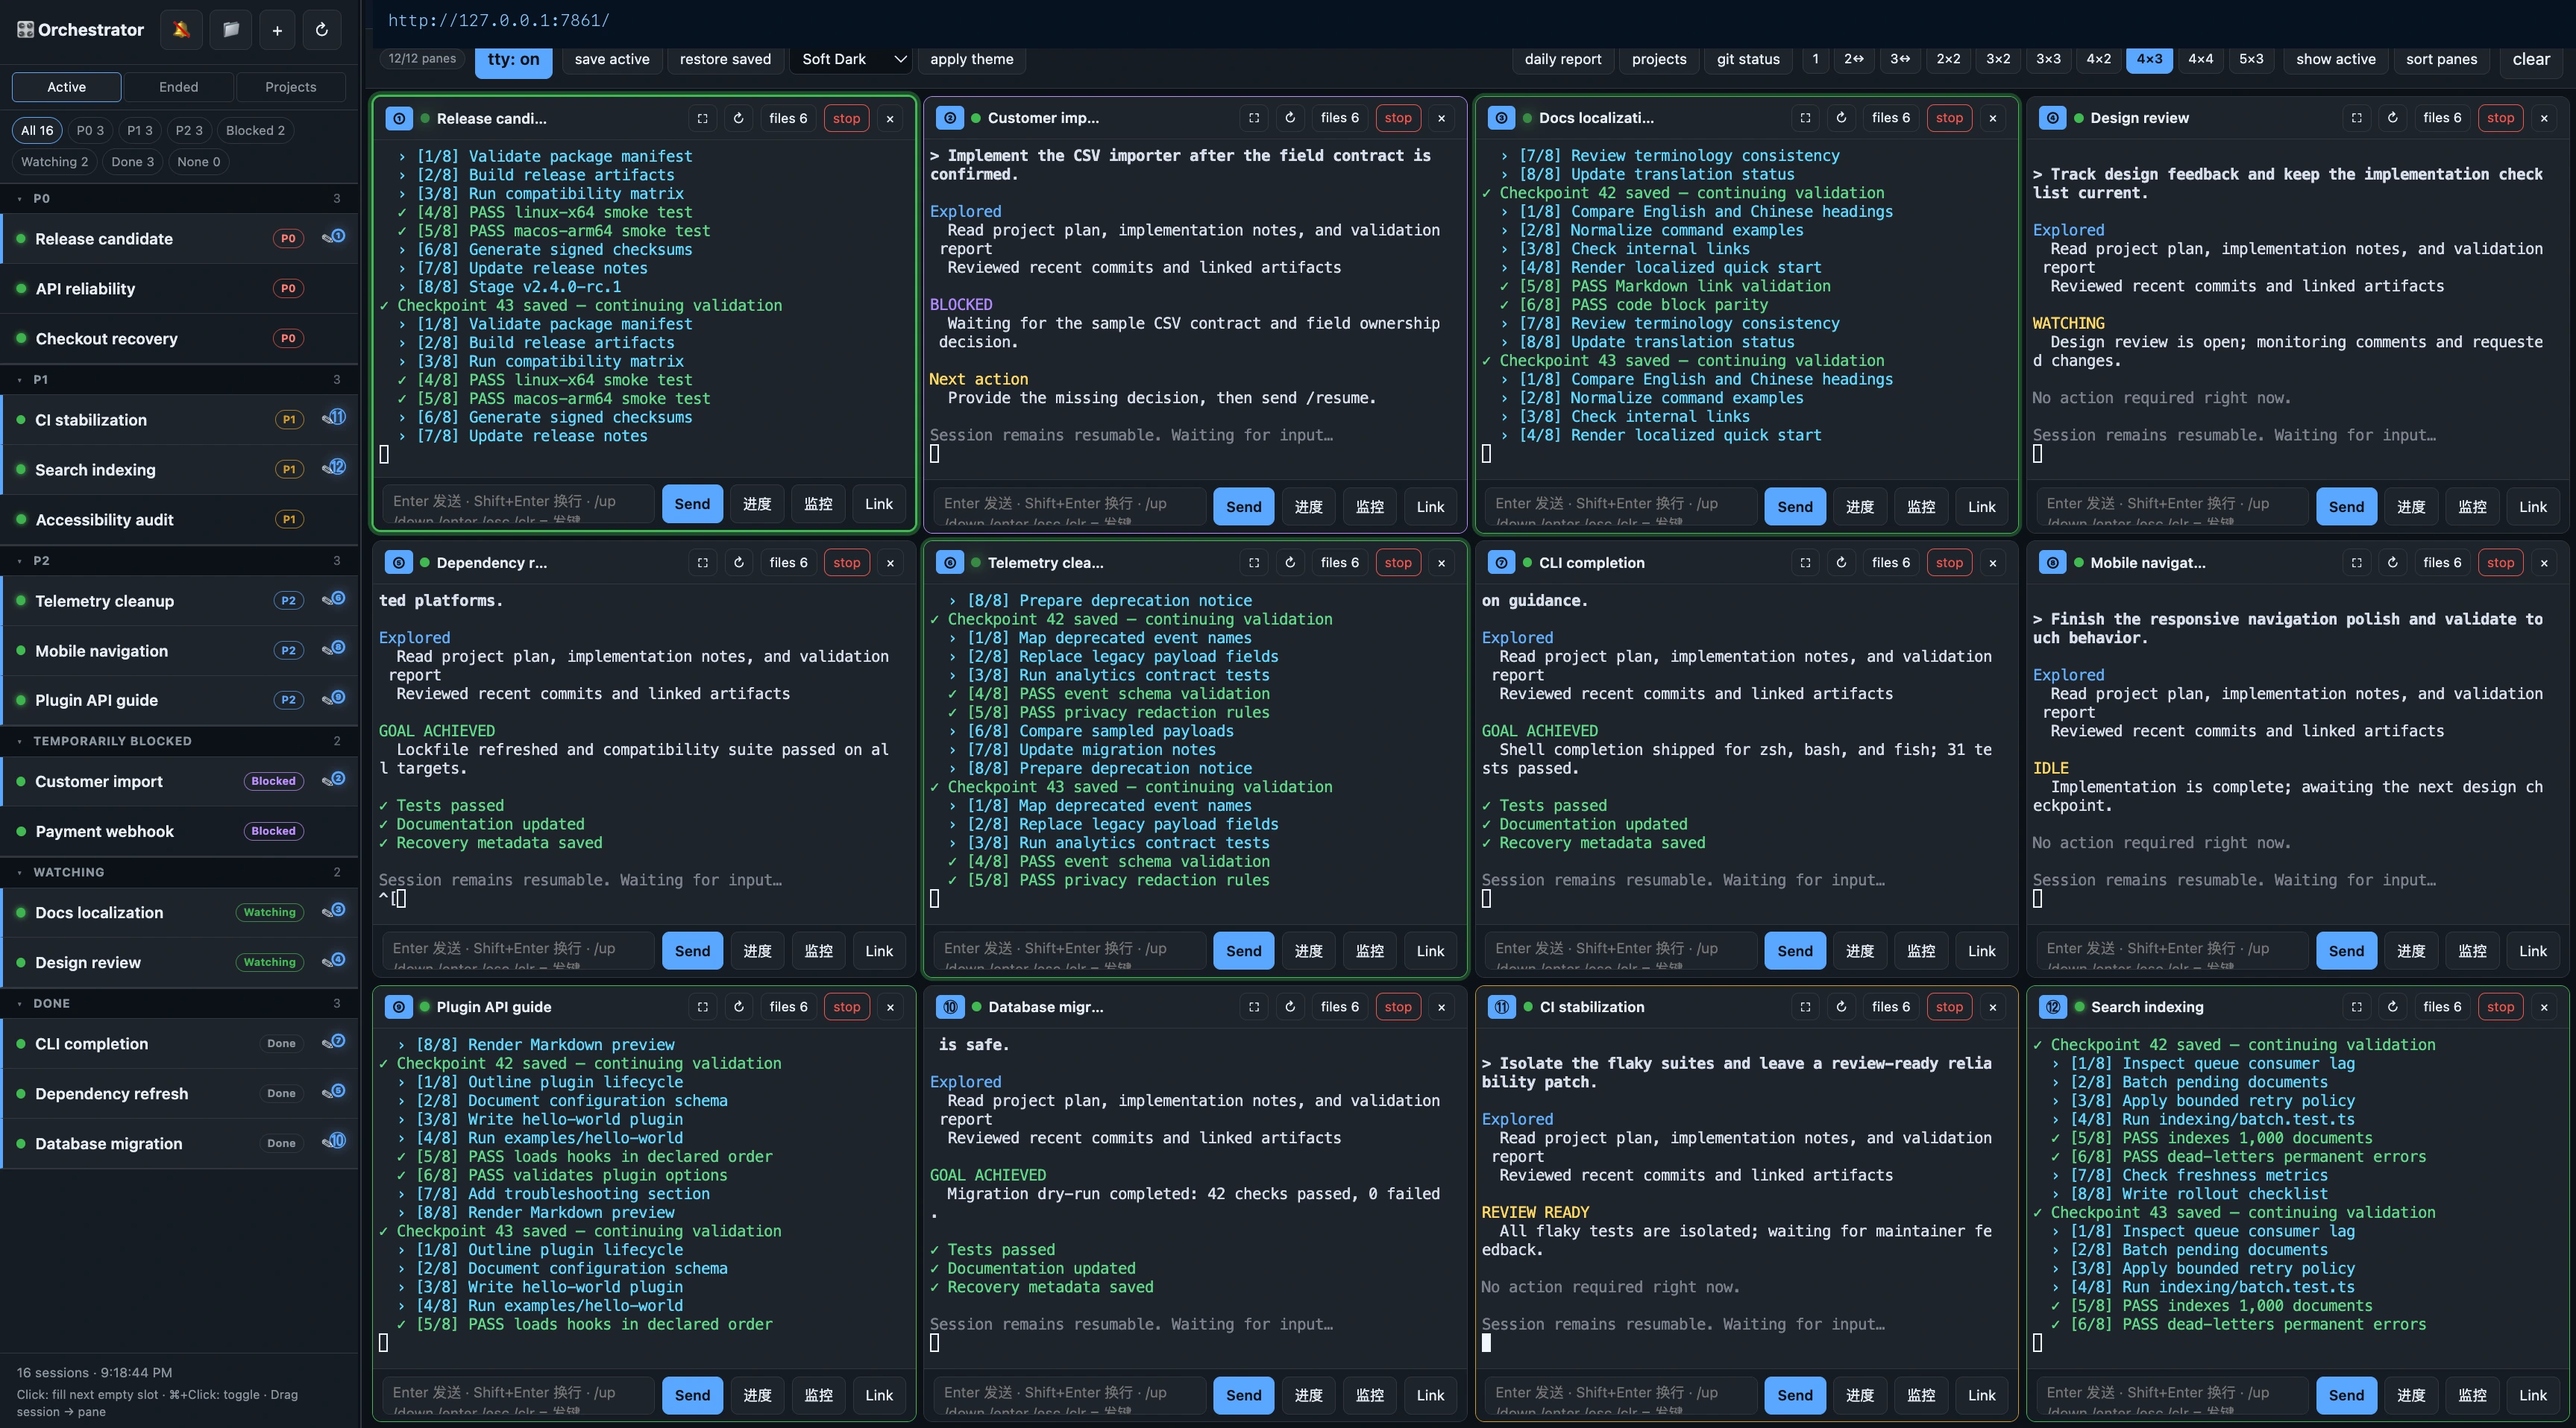
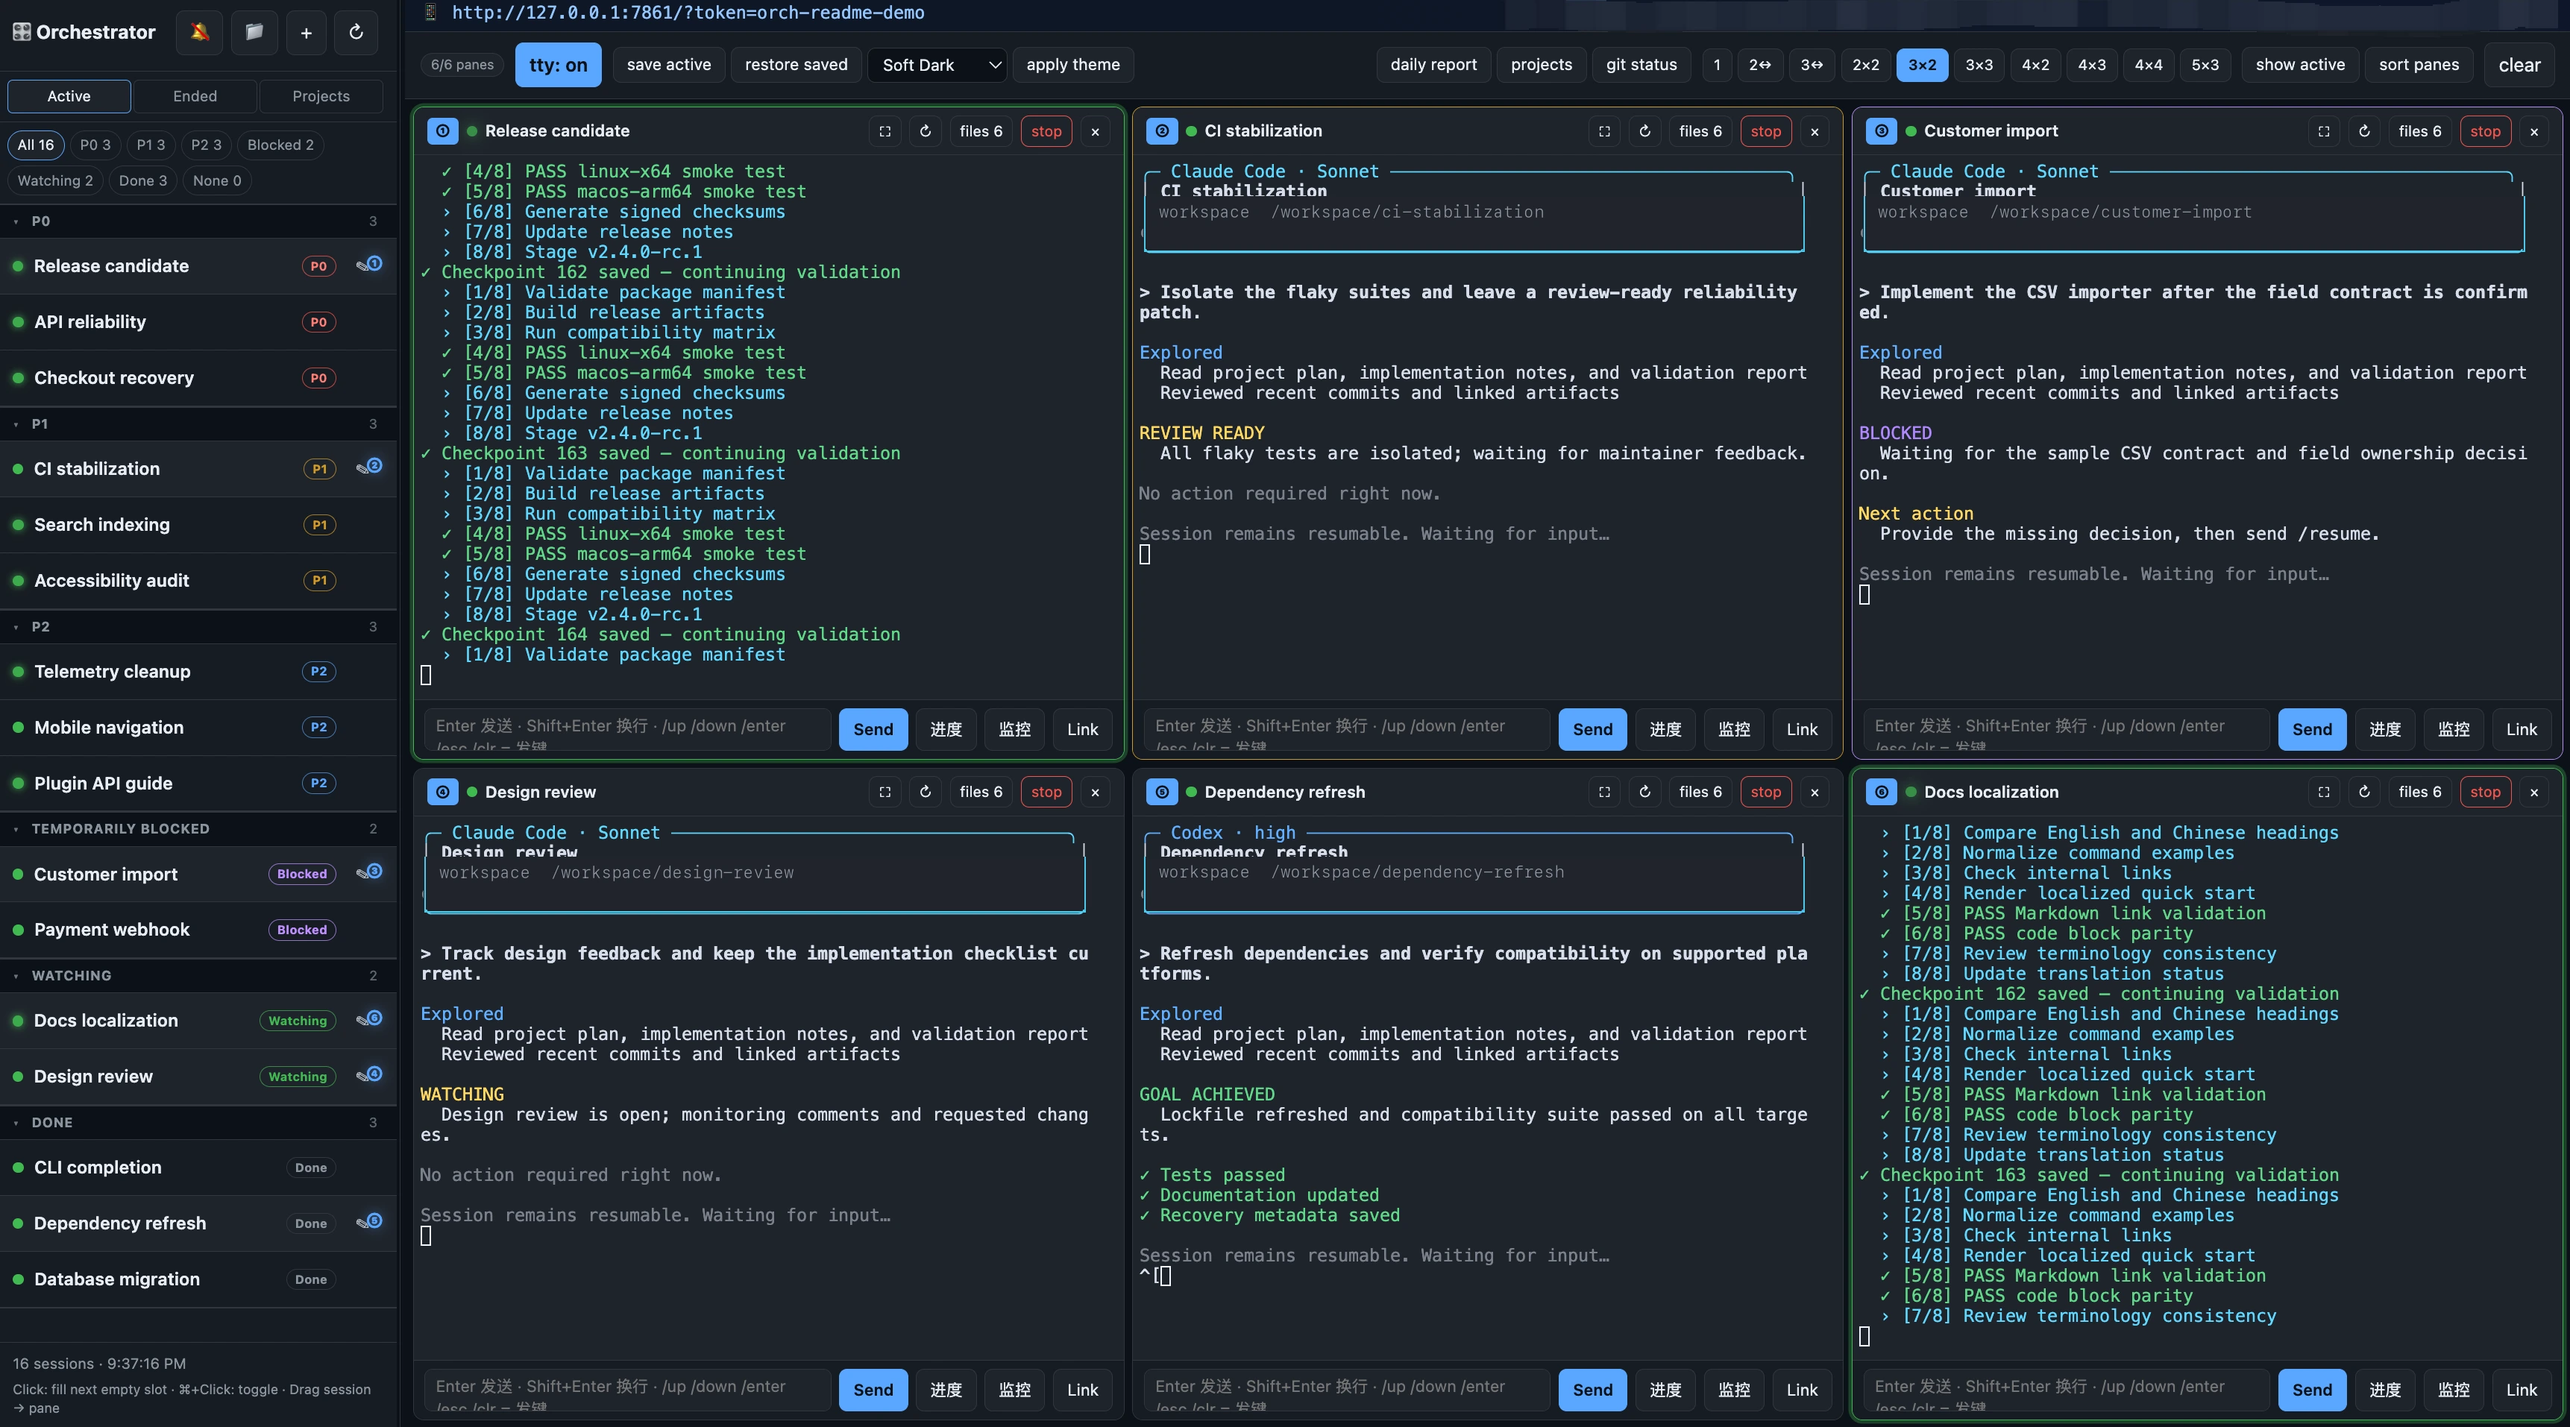
Lead README with real dashboard views

Changed region(s): [[0.0, 0.0, 1.0, 1.0], [0.0, 0.8939, 0.0932, 0.9248], [0.9936, 0.3699, 1.0, 0.4007]]

diff --git a/README_CN.md b/README_CN.md
@@ -13,9 +13,13 @@
 
 </div>
 
-![Agent Orchestrator 在一个 task board 中管理十六个实时 coding-agent sessions](docs/assets/dashboard-hero.webp)
+![Agent Orchestrator 通过清晰的 3x2 布局管理六个实时 coding-agent sessions](docs/assets/dashboard-hero.webp)
 
-<p align="center"><sub>十二个实时 TTY panes、十六个隔离 demo sessions；正在运行、阻塞、观察中和已完成的工作一眼可见。本地路径和地址已统一处理为公开演示内容。</sub></p>
+<p align="center"><sub>清晰的 3x2 工作视图：真实 TTY 输出、易记的 task 名称、优先级颜色、busy/idle 状态、关联文件和操作按钮都保持可见。</sub></p>
+
+![Agent Orchestrator 缩放到十二个实时 coding-agent sessions 的总览](docs/assets/dashboard-overview.webp)
+
+<p align="center"><sub>缩放到十二个实时 panes 时，sidebar 仍然管理全部十六个 sessions，并按 P0、P1、P2、blocked、watching 和 done 清晰分组。本地路径已统一处理为公开演示内容。</sub></p>
 
 Codex 和 Claude Code 在单个 terminal 里很强大。真正困难的是同时跑五个、十个
 terminal 之后：tab 名称开始失去意义，重要任务埋在窗口里，idle 的 agent 看起来
@@ -104,6 +108,12 @@ Agent Orchestrator 会保留多层恢复信息：
 4. 机器重启或 Dashboard 重启后，**Restore saved** 会在后台 tmux 中重新创建
    支持恢复的 session，并把它们放回保存时的 slot。
 5. 已结束 sessions 仍然可以搜索，并可从创建 session 的流程中恢复。
+
+<p align="center">
+  <img src="docs/assets/resume-session.webp" width="488" alt="搜索已经结束的 coding-agent session，并在后台恢复">
+</p>
+
+<p align="center"><sub>可以按 task 名称、agent、workspace、model 或原生 resume ID 搜索，然后在后台或 iTerm 中把 session 恢复回来。</sub></p>
 
 由于不同 agent CLI 暴露的 metadata 不完全一致，恢复能力是 best-effort；但
 Dashboard 会明确展示这些状态，而不是让它们消失在 terminal scrollback 里。

diff --git a/README.md b/README.md
@@ -13,9 +13,13 @@
 
 </div>
 
-![Agent Orchestrator managing sixteen live coding-agent sessions in one task board](docs/assets/dashboard-hero.webp)
+![Agent Orchestrator managing six live coding-agent sessions in a readable 3x2 view](docs/assets/dashboard-hero.webp)
 
-<p align="center"><sub>Twelve live TTY panes, sixteen isolated demo sessions, and one place to see what is active, blocked, watching, or done. Local paths and addresses are normalized for publication.</sub></p>
+<p align="center"><sub>A readable 3x2 operating view: real TTY output, memorable task names, priority colors, busy and idle state, files, and controls all stay visible.</sub></p>
+
+![Agent Orchestrator zoomed out to twelve live coding-agent sessions](docs/assets/dashboard-overview.webp)
+
+<p align="center"><sub>Zoom out to twelve live panes while the sidebar keeps all sixteen sessions organized across P0, P1, P2, blocked, watching, and done. Local paths are normalized for publication.</sub></p>
 
 Codex and Claude Code are powerful inside a terminal. The difficulty starts
 when five or ten terminals are running at once: tab titles stop being useful,
@@ -114,6 +118,12 @@ Agent Orchestrator keeps several layers of recovery information:
    sessions in background tmux and returns them to their saved slots.
 5. Ended sessions remain searchable and can be resumed from the new-session
    flow.
+
+<p align="center">
+  <img src="docs/assets/resume-session.webp" width="488" alt="Search an ended coding-agent session and resume it in the background">
+</p>
+
+<p align="center"><sub>Search by task name, agent, workspace, model, or native resume ID, then bring the session back in the background or in iTerm.</sub></p>
 
 Recovery is best-effort because the agent CLIs expose different metadata, but
 the Dashboard makes that state explicit instead of leaving it hidden in a
